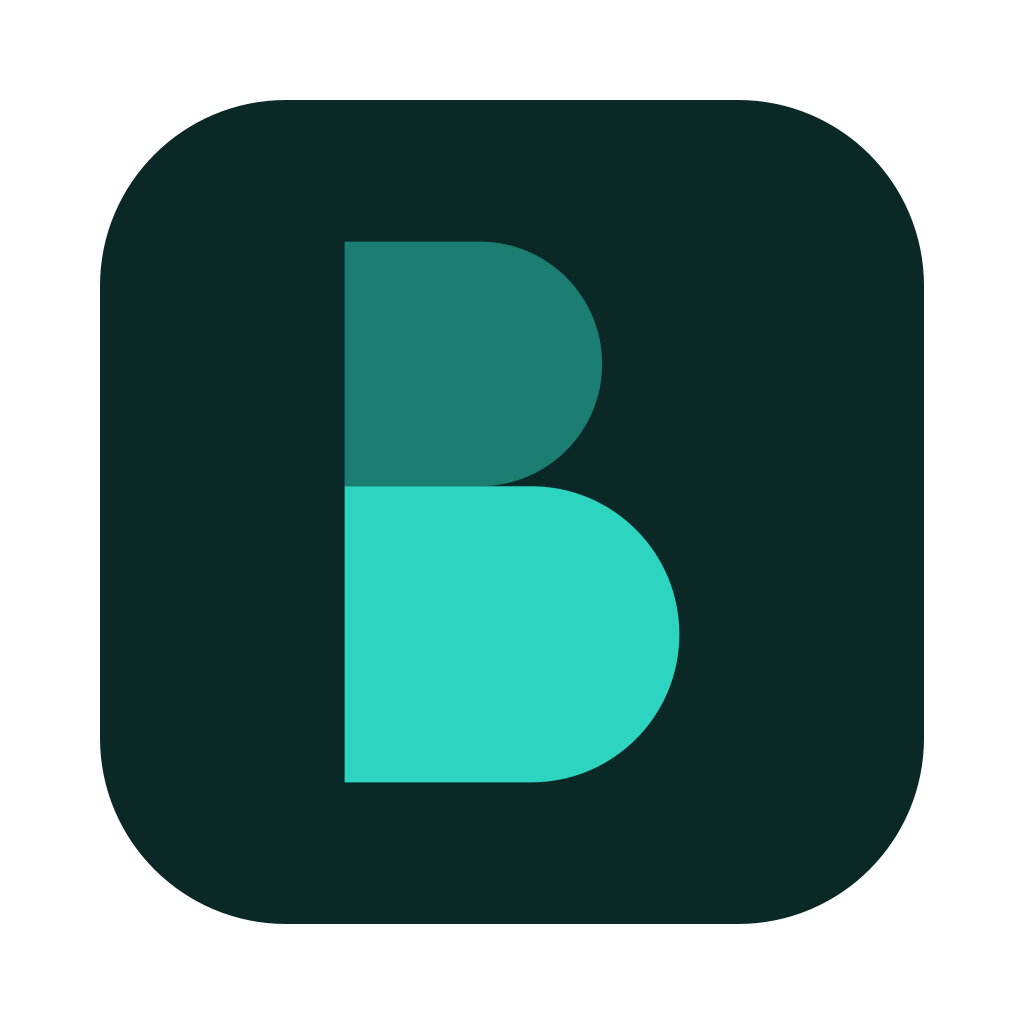
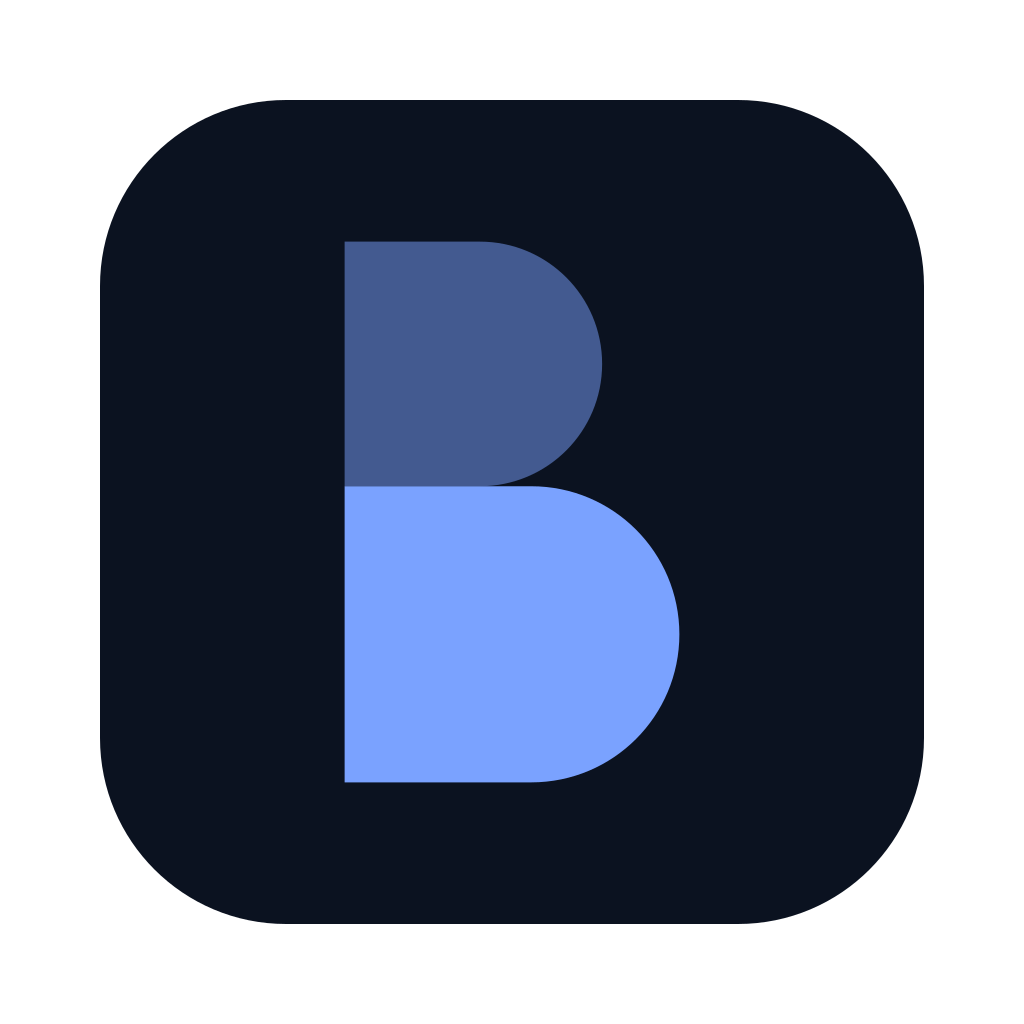
Brand colour: cobalt instead of teal, so Ballast stops looking like Gridline (#11)
Logo (all PNG sizes and mark.svg), --brand-wash/--brand-tint and the Sync button move to Harbor's
navy #0B1220 and cobalt #7AA2FF. Themes are unchanged; Ink stays the default.

Claude-Session: https://claude.ai/code/session_01BqKxhwVh55yefDH7bPAB13

Changed region(s): [[0.3125, 0.2188, 0.6875, 0.7812]]

diff --git a/public/sync.js b/public/sync.js
@@ -77,6 +77,6 @@ export function startSync() {
   };
   engine.onStatus(draw);
   S.site.onChange(draw);
-  btn.addEventListener("click", () => S.openPanel({ app: "ballast", tint: "#2DD4BF" }));
+  btn.addEventListener("click", () => S.openPanel({ app: "ballast", tint: "#7AA2FF" }));
   engine.start().catch(() => {});
 }

diff --git a/public/tokens.css b/public/tokens.css
@@ -36,8 +36,8 @@
   --t-fast: .15s;
   --t-base: .25s;
   --t-slow: .8s;
-  --brand-wash: #0A2826;
-  --brand-tint: #2DD4BF;
+  --brand-wash: #0B1220;
+  --brand-tint: #7AA2FF;
   --side: max(20px, env(safe-area-inset-left), env(safe-area-inset-right));
   --page: 1320px;
 }
